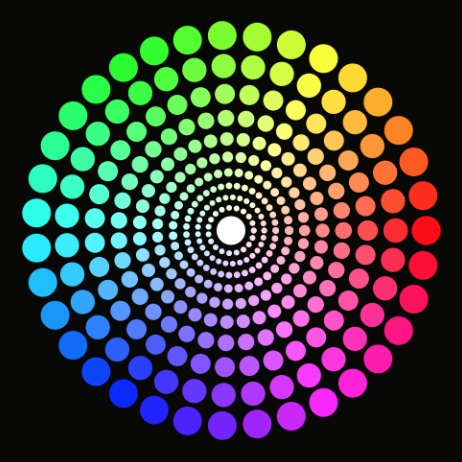
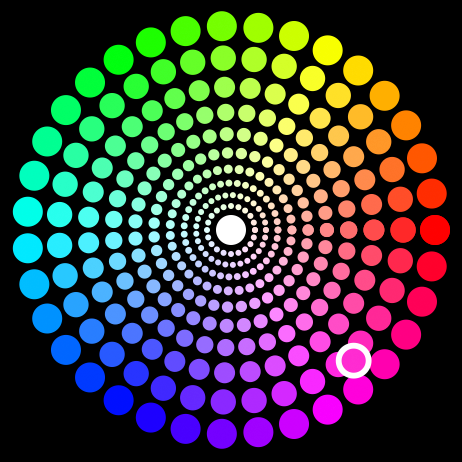
add color selection indicator #2

diff --git a/SwiftColorWheel/ColorWheelLayer.swift b/SwiftColorWheel/ColorWheelLayer.swift
@@ -3,6 +3,12 @@ import UIKit
 class ColorWheelLayer: CALayer {
     @NSManaged var brightness: CGFloat
 
+    var lastTouchPoint: CGPoint? {
+        didSet {
+            setNeedsDisplay()
+        }
+    }
+
     // swiftlint:disable force_cast
     private var padding: CGFloat { return (delegate as! ColorWheel).padding }
     private var centerRadius: CGFloat { return (delegate as! ColorWheel).centerRadius }
@@ -11,6 +17,7 @@ class ColorWheelLayer: CALayer {
     private var innerPadding: CGFloat { return (delegate as! ColorWheel).innerPadding }
     private var shiftDegree: CGFloat { return (delegate as! ColorWheel).shiftDegree }
     private var density: CGFloat { return (delegate as! ColorWheel).density }
+    private var highlightStrokeColor: UIColor? { return (delegate as! ColorWheel).highlightStrokeColor }
     // swiftlint:enable force_cast
 
     private let defaultBrightness: CGFloat = 1.0
@@ -51,13 +58,15 @@ class ColorWheelLayer: CALayer {
             currentDotRadius = dotRadius(distance: distance)
 
             arcPositions(dotRadius: currentDotRadius, on: innerRadius).forEach { rad in
-                drawCircle(around: center, on: outerRadius, of: context, rad: rad, distance: distance)
+                drawPickerCircle(in: context, around: center, on: outerRadius, rad: rad, distance: distance)
             }
             innerRadius -= (prevDotRadius + 2 * currentDotRadius + innerPadding)
             prevDotRadius = currentDotRadius
         } while innerRadius > 2 * centerRadius + currentDotRadius
 
-        drawCircle(around: center, on: outerRadius, of: context, rad: 0, distance: 0)
+        drawPickerCircle(in: context, around: center, on: outerRadius, rad: 0, distance: 0)
+        drawHighlightCircle(in: context, around: center, on: outerRadius)
+
         UIGraphicsPopContext()
     }
 
@@ -65,8 +74,9 @@ class ColorWheelLayer: CALayer {
         return min(rect.size.width, rect.size.height) / 2 - padding
     }
 
-    func color(at rad: CGFloat, distance: CGFloat) -> UIColor {
-        return UIColor(hue: rad / (2 * .pi), saturation: distance, brightness: brightness, alpha: 1)
+    func color(at rad: CGFloat, shiftedBy shiftDegree: CGFloat, distance: CGFloat) -> UIColor {
+        let shiftedRad = rad + (shiftDegree * distance) / 180 * .pi
+        return UIColor(hue: shiftedRad / (2 * .pi), saturation: distance, brightness: brightness, alpha: 1)
     }
 }
 
@@ -79,19 +89,42 @@ fileprivate extension ColorWheelLayer {
         return (0..<circlesFitting).map { CGFloat($0) * stepSize }
     }
 
-    func drawCircle(around center: CGPoint, on outerRadius: CGFloat, of context: CGContext, rad: CGFloat, distance: CGFloat) {
+    func drawPickerCircle(in context: CGContext, around center: CGPoint, on outerRadius: CGFloat, rad: CGFloat, distance: CGFloat) {
         let circleRadius = dotRadius(distance: distance)
-        let center = position(around: center, on: outerRadius, rad: rad, distance: distance)
-        let circleColor = color(at: rad, distance: distance)
-        let circleRect = CGRect(x: center.x - circleRadius,
-                y: center.y - circleRadius,
-                width: circleRadius * 2,
-                height: circleRadius * 2)
-        context.setLineWidth(circleRadius)
-        context.setStrokeColor(circleColor.cgColor)
-        context.setFillColor(circleColor.cgColor)
+        let center = position(around: center, shiftedBy: shiftDegree, on: outerRadius, rad: rad, distance: distance)
+        let circleColor = color(at: rad, shiftedBy: shiftDegree, distance: distance)
+        let rect = circleRect(center: center, radius: circleRadius, modifier: 2)
+
+        drawCircle(in: context, inside: rect, lineWidth: circleRadius, color: circleColor, strokeColor: circleColor)
+    }
+
+    func drawHighlightCircle(in context: CGContext, around center: CGPoint, on outerRadius: CGFloat) {
+        guard let touchPoint = lastTouchPoint, let strokeColor = highlightStrokeColor else {
+            return
+        }
+
+        let distance = sqrt(pow(touchPoint.x - center.x, 2) + pow(touchPoint.y - center.y, 2))
+        let normDistance = distance / (radius(in: bounds) - padding)
+        let rad = -(atan2(center.y - touchPoint.y, center.x - touchPoint.x) - CGFloat.pi)
+        let circleColor = color(at: rad, shiftedBy: 0, distance: normDistance)
+        let circleRadius = dotRadius(distance: normDistance)
+        let lineWidth = circleRadius * 0.7
+        let newCenter = position(around: center, shiftedBy: 0, on: outerRadius, rad: rad, distance: normDistance)
+        let rect = circleRect(center: newCenter, radius: circleRadius, modifier: 3.6)
+
+        drawCircle(in: context, inside: rect, lineWidth: lineWidth, color: circleColor, strokeColor: strokeColor)
+    }
+
+    func drawCircle(in context: CGContext, inside circleRect: CGRect, lineWidth: CGFloat, color: UIColor, strokeColor: UIColor) {
+        context.setLineWidth(lineWidth)
+        context.setStrokeColor(strokeColor.cgColor)
+        context.setFillColor(color.cgColor)
         context.addEllipse(in: circleRect)
         context.drawPath(using: .fillStroke)
+    }
+
+    func circleRect(center: CGPoint, radius: CGFloat, modifier: CGFloat) -> CGRect {
+        CGRect(x: center.x - radius, y: center.y - radius, width: radius * modifier, height: radius * modifier)
     }
 
     func dotRadius(distance: CGFloat) -> CGFloat {
@@ -99,7 +132,7 @@ fileprivate extension ColorWheelLayer {
         return max(minCircleRadius, maxCircleRadius * distance)
     }
 
-    func position(around center: CGPoint, on radius: CGFloat, rad: CGFloat, distance: CGFloat) -> CGPoint {
+    func position(around center: CGPoint, shiftedBy shiftDegree: CGFloat, on radius: CGFloat, rad: CGFloat, distance: CGFloat) -> CGPoint {
         let shiftedRad = rad + (shiftDegree * distance) / 180 * .pi
         let x = center.x + (radius - padding) * distance * cos(-shiftedRad)
         let y = center.y + (radius - padding) * distance * sin(-shiftedRad)

diff --git a/SwiftColorWheel/ColorWheel.swift b/SwiftColorWheel/ColorWheel.swift
@@ -38,6 +38,9 @@ public class ColorWheel: UIView {
     /// Padding between circles in point.
     public var innerPadding: CGFloat = 2 { didSet { setNeedsDisplay() } }
 
+    /// Stroke color highlighting currently selected color. Set nil to disable highlighting.
+    public var highlightStrokeColor: UIColor? = UIColor.white { didSet { setNeedsDisplay() } }
+
     /// Outer Radius of the ColorWheel in point.
     public var radius: CGFloat {
         return wheelLayer.radius(in: bounds)
@@ -125,8 +128,13 @@ public class ColorWheel: UIView {
         guard distance <= normalizedRadius else { return }
 
         let angle = adjustedAngleTo(center: wheelCenter, pointOnCircle: touchPoint, distance: distance)
-        let tappedColor = wheelLayer.color(at: angle, distance: distance)
+        let tappedColor = wheelLayer.color(at: angle, shiftedBy: shiftDegree, distance: distance)
+        wheelLayer.lastTouchPoint = touchPoint
         delegate?.didSelect(color: tappedColor)
+    }
+
+    func removeHighlightCircle() {
+        wheelLayer.lastTouchPoint = nil
     }
 
     func angleTo(center: CGPoint, pointOnCircle: CGPoint) -> CGFloat {

diff --git a/SwiftColorWheel/DefaultWheelGestureHandler.swift b/SwiftColorWheel/DefaultWheelGestureHandler.swift
@@ -17,6 +17,8 @@ class DefaultWheelGestureHandler: NSObject, UIGestureRecognizerDelegate {
     private func handlePanGesture(_ gestureRecognizer: UIPanGestureRecognizer) -> Bool {
         guard let colorWheel = colorWheel else { return true }
 
+        colorWheel.removeHighlightCircle()
+
         // since the view is rotated, the coordinates are also "rotated"
         let rotatedTouchPoint = gestureRecognizer.location(in: colorWheel)
         let distance = colorWheel.normalizedDistanceFromCenter(to: rotatedTouchPoint)
@@ -27,6 +29,8 @@ class DefaultWheelGestureHandler: NSObject, UIGestureRecognizerDelegate {
 
     private func handleRotateGesture(_ gestureRecognizer: UIRotationGestureRecognizer) -> Bool {
         guard let colorWheel = colorWheel else { return true }
+
+        colorWheel.removeHighlightCircle()
 
         // since the view is rotated, the coordinates are also "rotated"
         let rotatedTouchPointA = gestureRecognizer.location(ofTouch: 0, in: colorWheel)

diff --git a/SwiftColorWheelExamples/ViewController.swift b/SwiftColorWheelExamples/ViewController.swift
@@ -26,6 +26,7 @@ class ViewController: UIViewController {
         standardWheel.innerPadding = 3
         standardWheel.shiftDegree = 0
         standardWheel.density = 1.0
+        standardWheel.highlightStrokeColor = nil
     }
 }
 

diff --git a/README.md b/README.md
@@ -39,7 +39,7 @@ This will already render your color picker. However it doesn't react on your tap
 ```swift
 class MyViewController: UIViewController, ColorWheelDelegate {
     private var colorWheel: ColorWheel!
-    
+
     override func viewDidLoad() {
         super.viewDidLoad()
 
@@ -47,9 +47,9 @@ class MyViewController: UIViewController, ColorWheelDelegate {
         colorWheel.delegate = self
         view.addSubview(colorWheel)
     }
-    
+
     // MARK: - ColorWheelDelegate
-    
+
     func didSelect(color: UIColor) {
         view.backgroundColor = color
     }
@@ -85,6 +85,10 @@ colorWheel.shiftDegree = 0
 
 // Overall density of inner circles.
 colorWheel.density = 1.0
+
+// Stroke color highlighting currently selected color. Set nil to disable highlighting.
+// Default is UIColor.white.
+colorWheel.highlightStrokeColor = nil
 ```
 
 In some case (like when a `RotatingColorWheel` is placed inside a `UIScrollView`) you may want to tweak the default gesture handling for the rotation. If you do so, you can get access to the original gesture handler and use it in composition.
